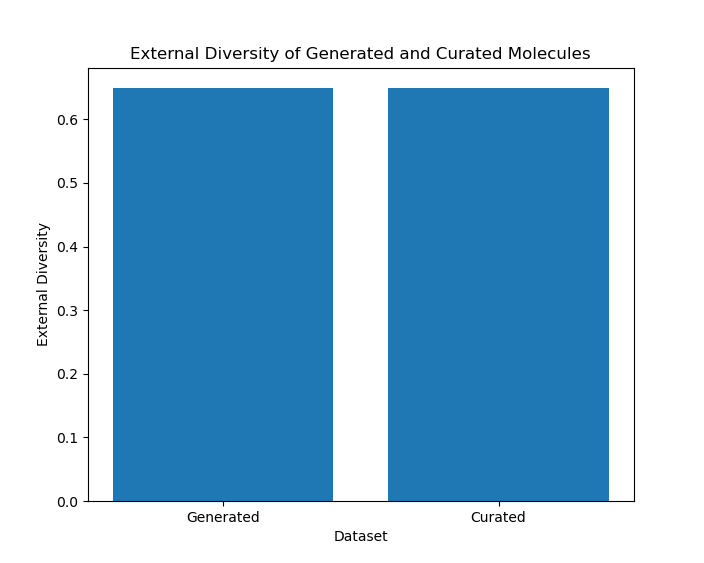
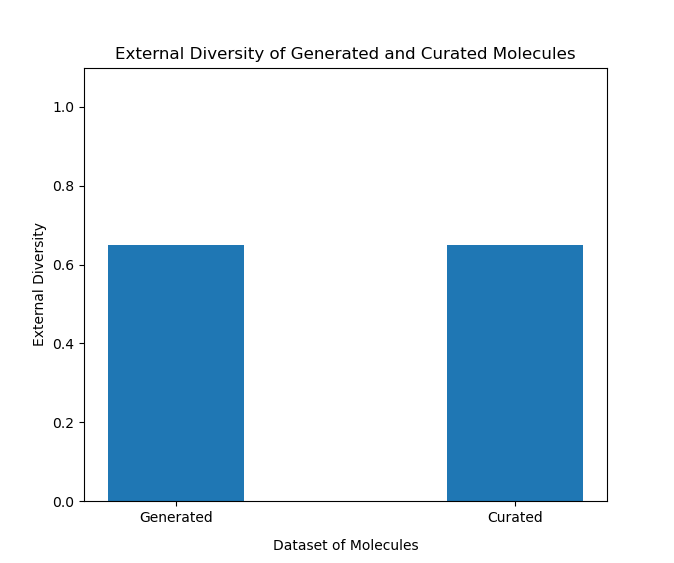
added new graphs

diff --git a/GPT/scripts/molecule_analysis/graphing_tools/qed_scatter.py b/GPT/scripts/molecule_analysis/graphing_tools/qed_scatter.py
@@ -21,8 +21,19 @@ training_mols.insert(len(training_mols.columns), 'QED', training_qed)
 curated = generated[generated.QED > 0.67]
 # print(curated.head())
 # print(curated.shape)
+print(f'Avg QED of Training: {training_mols["QED"].mean()}')
+print(f'Avg QED of Generated: {generated["QED"].mean()}')
+print(f'Avg QED of Curated: {curated["QED"].mean()}')
 
-av_qed = generated_qed['QED'].mean()
+print('\n')
+print(f'Max QED of Training: {training_mols["QED"].max()}')
+print(f'Max QED of Generated: {generated["QED"].max()}')
+print(f'Max QED of Curated: {curated["QED"].max()}')
+
+print('\n')
+print(f'Min QED of Training: {training_mols["QED"].min()}')
+print(f'Min QED of Generated: {generated["QED"].min()}')
+print(f'Min QED of Curated: {curated["QED"].min()}')
 
 # box plot
 generated_arr = np.asarray(generated_qed['QED'])
@@ -34,4 +45,7 @@ plt.boxplot(data)
 plt.ylabel('QED')
 plt.title('QED of Generated vs Training Set of Molecules')
 plt.xticks([1, 2, 3], ['Generated', 'Training', 'Generated (Curated)'])
+plt.axhline(y=0.67, color='b', linestyle=':', label='Attractive QED')
+plt.axhline(y=0.49, color='r', linestyle=':', label='Unattractive QED')
+plt.legend()
 plt.show()

diff --git a/GPT/scripts/molecule_analysis/utils/draw.py b/GPT/scripts/molecule_analysis/utils/draw.py
@@ -3,22 +3,19 @@ from rdkit.Chem import Draw
 import pandas as pd
 import os
 
-def draw_molecule(path, output_path):
+def draw_molecule(input_df: pd.DataFrame, output_path):
     "Function to draw molecules from the csv file of SMILES strings and saves them as images"
-    molecules = pd.read_csv(path)
     
     if not os.path.exists(output_path):
         os.makedirs(output_path)
         
-    print(f'Number of molecules loaded: {len(molecules)}')
+    print(f'Number of molecules loaded: {len(input_df)}')
     
-    for c, molecule in enumerate(molecules['Valid_Molecules']):
+    for c, molecule in enumerate(input_df):
         m = Chem.MolFromSmiles(molecule)
         img = Draw.MolToImage(m)
         img.save(f'{output_path}molecule_{c}.png')
     
     
 if __name__ == '__main__':
-    path = 'scripts/generated_molecules/valid_molecules.csv'
-    output_path = 'scripts/generated_molecules/molecule_images/'
-    draw_molecule(path, output_path)
+    pass

diff --git a/GPT/scripts/molecule_analysis/graphing_tools/external_diversity.py b/GPT/scripts/molecule_analysis/graphing_tools/external_diversity.py
@@ -19,8 +19,22 @@ print(f'External Diversity of Curated: {curated_ed}')
 
 # Bar chart
 data = [generated_ed, curated_ed]
-plt.bar(['Generated', 'Curated'], data)
+
+# Define x coordinates
+x = np.arange(len(['Generated', 'Curated'])*0.7)
+
+# Define bar width
+bar_width = 0.4
+
+# Plot bars
+plt.bar(x, data, width=bar_width)
+
+# Replace numerical x-axis labels with your labels
+plt.xticks(x, ['Generated', 'Curated'])
+
+# Other plot settings
+plt.ylim(0, 1.1)
 plt.ylabel('External Diversity')
-plt.xlabel('Dataset')
+plt.xlabel('Dataset of Molecules', labelpad=10)
 plt.title('External Diversity of Generated and Curated Molecules')
 plt.show()

diff --git a/GPT/scripts/molecule_analysis/graphing_tools/internal_diversity.py b/GPT/scripts/molecule_analysis/graphing_tools/internal_diversity.py
@@ -21,8 +21,9 @@ print(f'Internal Diversity of Curated: {curated_div}')
 
 # Bar chart
 data = [training_div, generated_div, curated_div]
-plt.bar(['Training', 'Generated', 'Curated'], data)
+plt.bar(['Training', 'Generated', 'Curated'], data, width=0.4)
+plt.ylim(0, 1.1)
 plt.ylabel('Internal Diversity')
-plt.xlabel('Dataset')
+plt.xlabel('Dataset of Molecules', labelpad=10)
 plt.title('Internal Diversity of Training, Generated and Curated Molecules')
 plt.show()
